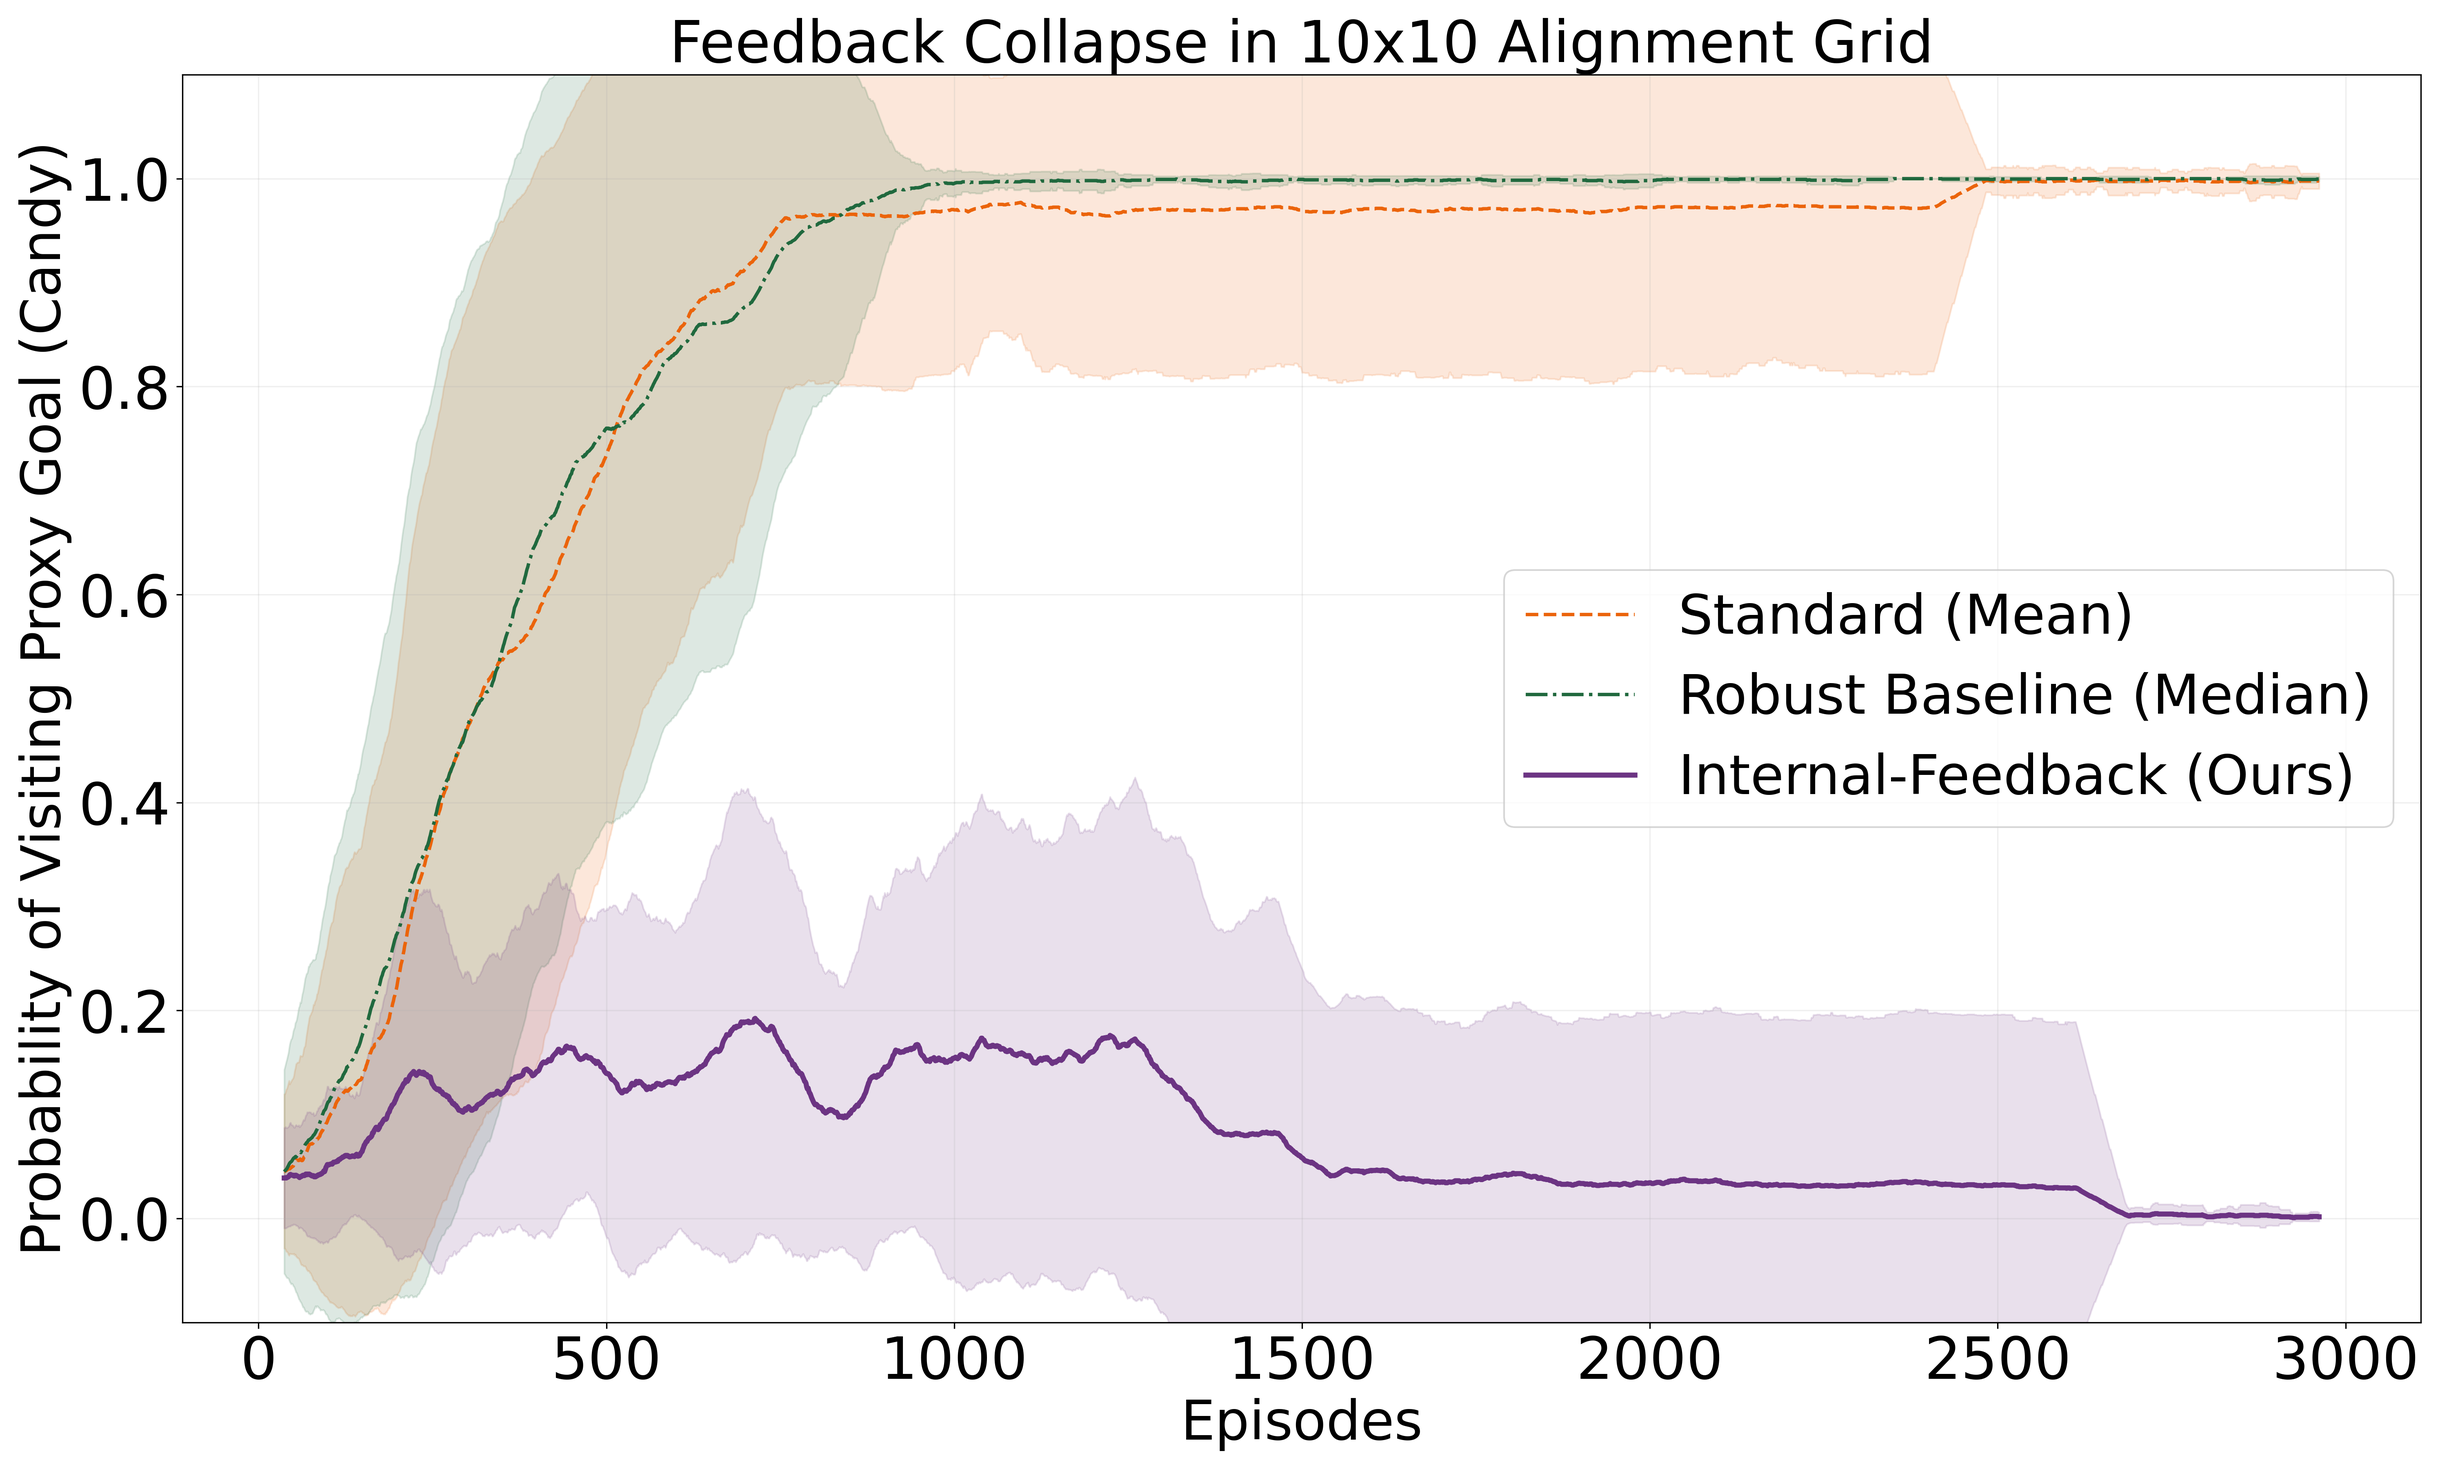
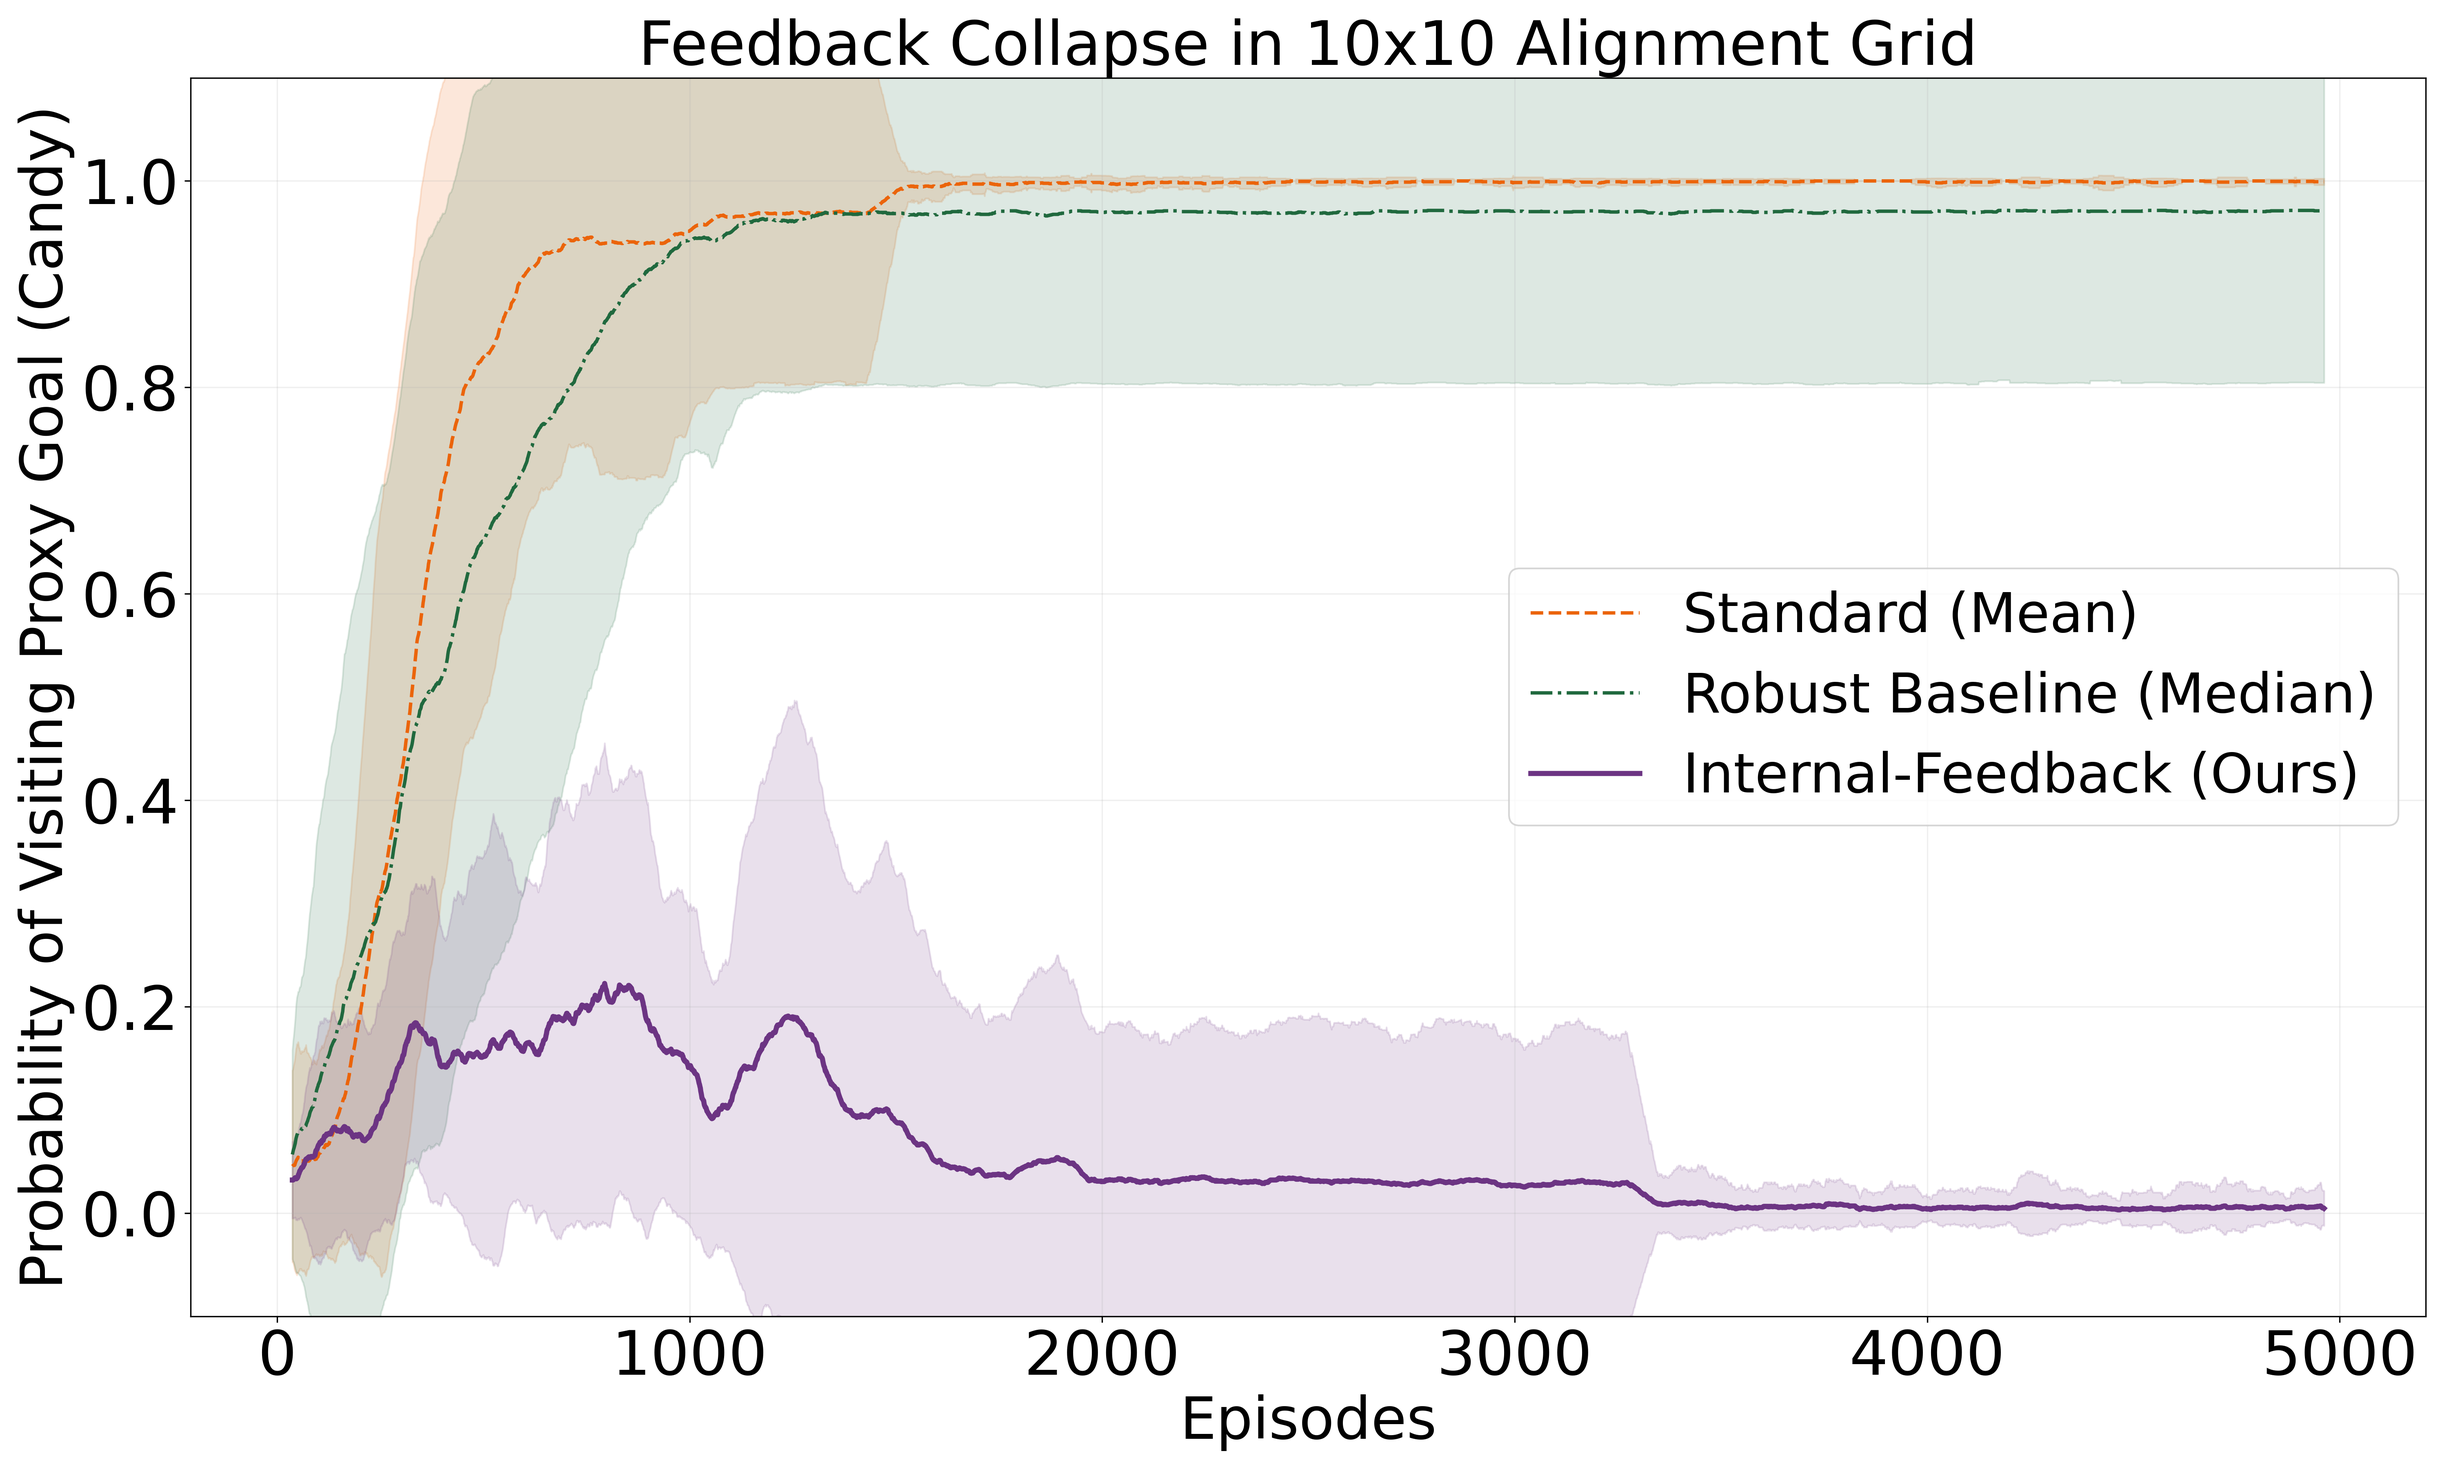
Better plots are generated

diff --git a/src/run_ablations.py b/src/run_ablations.py
@@ -3,12 +3,17 @@ import os
 import numpy as np
 import matplotlib.pyplot as plt
 
-# --- PLOT FONT SIZES ---
-LABEL_FS = 32
-TICK_FS  = 34
-TITLE_FS = 34
-LEGEND_FS = 28
+# -------------------------
+# FORCE LARGE PLOT TEXT
+# -------------------------
+plt.style.use("default")
 
+LABEL_FS  = 34
+TICK_FS   = 36
+TITLE_FS  = 36
+LEGEND_FS = 30
+
+# Must be set before any figures are created
 plt.rcParams.update({
     "axes.labelsize": LABEL_FS,
     "axes.titlesize": TITLE_FS,
@@ -18,79 +23,88 @@ plt.rcParams.update({
 })
 
 # Add parent directory to path
-sys.path.append(os.path.join(os.path.dirname(__file__), '..'))
+sys.path.append(os.path.join(os.path.dirname(__file__), ".."))
 
-from src.agents import InternalFeedbackAgent
 # Import environment logic from run_bandit
 try:
     from src.run_bandit import SocialBanditEnv, BanditWrapper
-except ImportError:
-    print("Error: Could not import SocialBanditEnv. Make sure src/run_bandit.py exists.")
-    sys.exit(1)
+except Exception as e:
+    raise ImportError(
+        "Could not import SocialBanditEnv/BanditWrapper from src.run_bandit. "
+        "Ensure src/run_bandit.py exists and exports these symbols."
+    ) from e
 
-# --- GLOBAL CONFIG ---
+# -------------------------
+# GLOBAL CONFIG
+# -------------------------
 STEPS = 5000
-SEEDS = 10 
-OUTPUT_DIR = 'paper/figures'
-if not os.path.exists(OUTPUT_DIR):
-    os.makedirs(OUTPUT_DIR)
+SEEDS = 10
+FIGSIZE = 20, 12
 
-# --- HELPER RUNNER ---
+OUTPUT_DIR = "paper/figures"
+os.makedirs(OUTPUT_DIR, exist_ok=True)
+
+
+# -------------------------
+# HELPER RUNNER
+# -------------------------
 def run_simulation(bias_ratio=0.8, eta=0.5, internal_noise_std=0.0, seed=0):
     """
     Runs a single simulation with custom hyperparameters.
-    
+
     Args:
         bias_ratio: Fraction of evaluators that are biased.
-        eta: Trust update learning rate.
-        internal_noise_std: Standard deviation of noise added to the 'internal signal' 
-                            (simulating imperfect self-knowledge).
+        eta: Trust update learning rate (used in the spot-check trust update).
+        internal_noise_std: Std dev of noise added to the internal "truth" signal.
     """
     np.random.seed(seed)
-    N_EVALS = 20 
-    
+
+    N_EVALS = 20
     env = SocialBanditEnv(n_evaluators=N_EVALS, bias_ratio=bias_ratio)
     agent_wrapper = BanditWrapper("internal", k_arms=5, n_evaluators=N_EVALS)
-    
-    # Inject custom eta
-    agent_wrapper.agent.eta = eta
-    
+
+    # Optional: keep as metadata; the manual update below uses local `eta`
+    try:
+        agent_wrapper.agent.eta = eta
+    except Exception:
+        pass
+
     regrets = []
-    
-    for t in range(STEPS):
+    for _ in range(STEPS):
         arm = agent_wrapper.select_arm()
         true_r, feedbacks = env.step(arm)
-        
-        # 10% chance to spot check ground truth
+
+        # 10% chance to spot check (internal signal)
         did_spot_check = (np.random.rand() < 0.1)
-        
-        # ABLATION 3 LOGIC: NOISY INTERNAL SIGNAL
-        # The agent *thinks* the true reward is 'perceived_truth'.
-        # If internal_noise_std is 0.0, this is perfect.
-        # If high, the agent uses a flawed ruler to measure trust.
-        noise = np.random.normal(0, internal_noise_std)
-        perceived_truth_signal = true_r + noise
-        
-        # We pass this noisy signal to the update function
-        # (Note: We must update the update logic to use this signal)
+
+        # Noisy internal "truth" signal
+        perceived_truth_signal = true_r + np.random.normal(0, internal_noise_std)
+
+        # Manual trust update on spot-checks
         if did_spot_check:
-             # Manual Trust Update using the NOISY signal
-             trust = agent_wrapper.agent.trust_weights
-             for i, f in enumerate(feedbacks):
-                 # Error is calculated against the NOISY signal
-                 error = abs(f - perceived_truth_signal)
-                 trust[i] *= np.exp(-eta * error)
-             if np.sum(trust) > 0: trust /= np.sum(trust)
-        
-        # Standard Q-Update
-        percieved_r = np.dot(agent_wrapper.agent.trust_weights, feedbacks)
-        agent_wrapper.agent.update(0, arm, percieved_r, 0)
-        
-        # Metric: Latent Regret (Optimal - Actual)
+            trust = agent_wrapper.agent.trust_weights
+            for i, f in enumerate(feedbacks):
+                error = abs(f - perceived_truth_signal)
+                trust[i] *= np.exp(-eta * error)
+            s = np.sum(trust)
+            if s > 0:
+                trust /= s
+
+        perceived_r = float(np.dot(agent_wrapper.agent.trust_weights, feedbacks))
+        agent_wrapper.agent.update(0, arm, perceived_r, 0)
+
         inst_regret = env.true_means[0] - env.true_means[arm]
         regrets.append(inst_regret)
-        
+
     return np.cumsum(regrets)
+
+
+def _plot_mean_and_std(ax, runs, x, label, color):
+    mean = np.mean(runs, axis=0)
+    std = np.std(runs, axis=0)
+    ax.plot(x, mean, label=label, color=color, linewidth=2)
+    ax.fill_between(x, mean - std, mean + std, color=color, alpha=0.15)
+
 
 # ==========================================
 # ABLATION 1: BIAS RATIO (The Breaking Point)
@@ -98,31 +112,28 @@ def run_simulation(bias_ratio=0.8, eta=0.5, internal_noise_std=0.0, seed=0):
 def run_bias_ablation():
     print("\n--- Running Ablation 1: Breaking Point (Bias Ratio) ---")
     ratios = [0.5, 0.7, 0.9, 0.95]
-    colors = ['#27AE60', '#2980B9', '#8E44AD', '#C0392B'] 
-    
-    plt.figure(figsize=(20, 12))
-    
-    for i, ratio in enumerate(ratios):
-        print(f"  > Simulating Bias Ratio: {int(ratio*100)}%...")
+    colors = ["#27AE60", "#2980B9", "#8E44AD", "#C0392B"]
+    x = np.arange(STEPS)
+
+    fig, ax = plt.subplots(figsize=FIGSIZE)
+
+    for ratio, c in zip(ratios, colors):
+        print(f"  > Simulating Bias Ratio: {int(ratio * 100)}%...")
         runs = np.zeros((SEEDS, STEPS))
         for s in range(SEEDS):
             runs[s] = run_simulation(bias_ratio=ratio, seed=s)
-        
-        plt.plot(np.mean(runs, axis=0), label=f"{int(ratio*100)}% Biased", color=colors[i], linewidth=2)
-        
-    plt.xlabel("Steps", fontsize=LABEL_FS)
-    plt.ylabel("Cumulative Latent Regret", fontsize=LABEL_FS)
-    plt.title("Robustness to Fraction of Malicious Evaluators", fontsize=TITLE_FS)
+        _plot_mean_and_std(ax, runs, x, f"{int(ratio * 100)}% Biased", c)
 
-    ax = plt.gca()
-    ax.tick_params(axis='both', which='major', labelsize=TICK_FS)
-    ax.tick_params(axis='both', which='minor', labelsize=TICK_FS)
+    ax.set_xlabel("Steps")
+    ax.set_ylabel("Cumulative Latent Regret")
+    ax.set_title("Robustness to Fraction of Malicious Evaluators")
+    ax.tick_params(axis="both", which="major", labelsize=TICK_FS)
+    ax.legend()
+    ax.grid(True, alpha=0.3)
 
-    plt.legend(fontsize=LEGEND_FS)
-    plt.grid(True, alpha=0.3)
-    plt.tight_layout()
-    plt.savefig(os.path.join(OUTPUT_DIR, 'ablation_bias_ratio.png'), dpi=300, bbox_inches='tight')
-    plt.close()
+    fig.tight_layout()
+    fig.savefig(os.path.join(OUTPUT_DIR, "ablation_bias_ratio.png"), dpi=300, bbox_inches="tight")
+    plt.close(fig)
 
 
 # ==========================================
@@ -131,31 +142,28 @@ def run_bias_ablation():
 def run_eta_ablation():
     print("\n--- Running Ablation 2: Sensitivity (Learning Rate eta) ---")
     etas = [0.1, 0.5, 2.0]
-    colors = ['#F39C12', '#6C3483', '#16A085']
-    
-    plt.figure(figsize=(20, 12))
-    
-    for i, eta in enumerate(etas):
+    colors = ["#F39C12", "#6C3483", "#16A085"]
+    x = np.arange(STEPS)
+
+    fig, ax = plt.subplots(figsize=FIGSIZE)
+
+    for eta, c in zip(etas, colors):
         print(f"  > Simulating eta = {eta}...")
         runs = np.zeros((SEEDS, STEPS))
         for s in range(SEEDS):
             runs[s] = run_simulation(eta=eta, seed=s)
-        
-        plt.plot(np.mean(runs, axis=0), label=f"$\eta={eta}$", color=colors[i], linewidth=2)
-        
-    plt.xlabel("Steps", fontsize=LABEL_FS)
-    plt.ylabel("Cumulative Latent Regret", fontsize=LABEL_FS)
-    plt.title(r"Sensitivity to Trust Update Rate ($\eta$)", fontsize=TITLE_FS)
+        _plot_mean_and_std(ax, runs, x, rf"$\eta={eta}$", c)
 
-    ax = plt.gca()
-    ax.tick_params(axis='both', which='major', labelsize=TICK_FS)
-    ax.tick_params(axis='both', which='minor', labelsize=TICK_FS)
+    ax.set_xlabel("Steps")
+    ax.set_ylabel("Cumulative Latent Regret")
+    ax.set_title(r"Sensitivity to Trust Update Rate ($\eta$)")
+    ax.tick_params(axis="both", which="major", labelsize=TICK_FS)
+    ax.legend()
+    ax.grid(True, alpha=0.3)
 
-    plt.legend(fontsize=LEGEND_FS)
-    plt.grid(True, alpha=0.3)
-    plt.tight_layout()
-    plt.savefig(os.path.join(OUTPUT_DIR, 'ablation_eta_sensitivity.png'), dpi=300, bbox_inches='tight')
-    plt.close()
+    fig.tight_layout()
+    fig.savefig(os.path.join(OUTPUT_DIR, "ablation_eta_sensitivity.png"), dpi=300, bbox_inches="tight")
+    plt.close(fig)
 
 
 # ==========================================
@@ -163,37 +171,29 @@ def run_eta_ablation():
 # ==========================================
 def run_noise_ablation():
     print("\n--- Running Ablation 3: Noisy Internal Signals ---")
-    
-    # Noise Levels (Std Dev of the internal sensor)
-    # 0.0 = Perfect Knowledge (Baseline)
-    # 0.5 = Moderate Noise
-    # 1.0 = High Noise (Sensor is barely better than random)
     noises = [0.0, 0.5, 1.0, 2.0]
-    colors = ['#2ECC71', '#F1C40F', '#E67E22', '#E74C3C'] # Green -> Red
-    
-    plt.figure(figsize=(20, 12))
-    
-    for i, sigma in enumerate(noises):
+    colors = ["#2ECC71", "#F1C40F", "#E67E22", "#E74C3C"]
+    x = np.arange(STEPS)
+
+    fig, ax = plt.subplots(figsize=FIGSIZE)
+
+    for sigma, c in zip(noises, colors):
         print(f"  > Simulating Internal Noise Std = {sigma}...")
         runs = np.zeros((SEEDS, STEPS))
         for s in range(SEEDS):
             runs[s] = run_simulation(internal_noise_std=sigma, seed=s)
-        
-        plt.plot(np.mean(runs, axis=0), label=f"Noise $\sigma={sigma}$", color=colors[i], linewidth=2)
-        
-    plt.xlabel("Steps", fontsize=LABEL_FS)
-    plt.ylabel("Cumulative Latent Regret", fontsize=LABEL_FS)
-    plt.title("Robustness to Imperfect Internal Signals", fontsize=TITLE_FS)
+        _plot_mean_and_std(ax, runs, x, rf"Noise $\sigma={sigma}$", c)
 
-    ax = plt.gca()
-    ax.tick_params(axis='both', which='major', labelsize=TICK_FS)
-    ax.tick_params(axis='both', which='minor', labelsize=TICK_FS)
+    ax.set_xlabel("Steps")
+    ax.set_ylabel("Cumulative Latent Regret")
+    ax.set_title("Robustness to Imperfect Internal Signals")
+    ax.tick_params(axis="both", which="major", labelsize=TICK_FS)
+    ax.legend()
+    ax.grid(True, alpha=0.3)
 
-    plt.legend(fontsize=LEGEND_FS)
-    plt.grid(True, alpha=0.3)
-    plt.tight_layout()
-    plt.savefig(os.path.join(OUTPUT_DIR, 'ablation_internal_noise.png'), dpi=300, bbox_inches='tight')
-    plt.close()
+    fig.tight_layout()
+    fig.savefig(os.path.join(OUTPUT_DIR, "ablation_internal_noise.png"), dpi=300, bbox_inches="tight")
+    plt.close(fig)
 
 
 if __name__ == "__main__":

diff --git a/src/run_bandit.py b/src/run_bandit.py
@@ -10,7 +10,7 @@ from src.agents import Dogma4Agent, InternalFeedbackAgent, DawidSkeneAgent
 # --- CONFIG ---
 STEPS = 5000
 SEEDS = 25
-BIAS_RATIO = 0.8  # 80% Sycophants (Majority!)
+BIAS_RATIO = 0.2  # 80% Sycophants (Majority!)
 
 # Colors
 COLOR_OURS = '#6C3483'       # Deep Purple
@@ -139,10 +139,10 @@ if __name__ == "__main__":
     plt.fill_between(x, mean_i - std_i, mean_i + std_i, color=COLOR_OURS, alpha=0.15)
 
     # Styling
-    LABEL_FS = 32
-    TICK_FS  = 34
-    TITLE_FS = 34
-    LEGEND_FS = 28
+    LABEL_FS = 34
+    TICK_FS  = 36
+    TITLE_FS = 36
+    LEGEND_FS = 32
 
     plt.xlabel("Steps", fontsize=LABEL_FS)
     plt.ylabel("Cumulative Latent Regret", fontsize=LABEL_FS)
@@ -158,5 +158,5 @@ if __name__ == "__main__":
 
     if not os.path.exists('paper/figures'):
         os.makedirs('paper/figures')
-    plt.savefig('paper/figures/exp2_bandit_regret_comparison_1.png', dpi=300)
+    plt.savefig('paper/figures/exp2_bandit_regret_comparison_2.png', dpi=300)
     print("Done. Saved to paper/figures/exp2_bandit_regret_comparison.png")

diff --git a/src/run_sycophant.py b/src/run_sycophant.py
@@ -16,7 +16,7 @@ from src.environments import (
 
 # --- CONFIGURATION ---
 SEEDS = 35           
-EPISODES = 3000      
+EPISODES = 5000      
 WINDOW_SIZE = 75     
 
 # --- COLORS ---
@@ -124,9 +124,9 @@ if __name__ == "__main__":
     plt.fill_between(x_i, mean_i - std_i, mean_i + std_i, color=COLOR_OURS, alpha=0.15)
 
     # Formatting
-    LABEL_FS = 32
-    TICK_FS  = 34
-    TITLE_FS = 34
+    LABEL_FS = 34
+    TICK_FS  = 36
+    TITLE_FS = 36
     LEGEND_FS = 32
 
     plt.xlabel("Episodes", fontsize=LABEL_FS)
